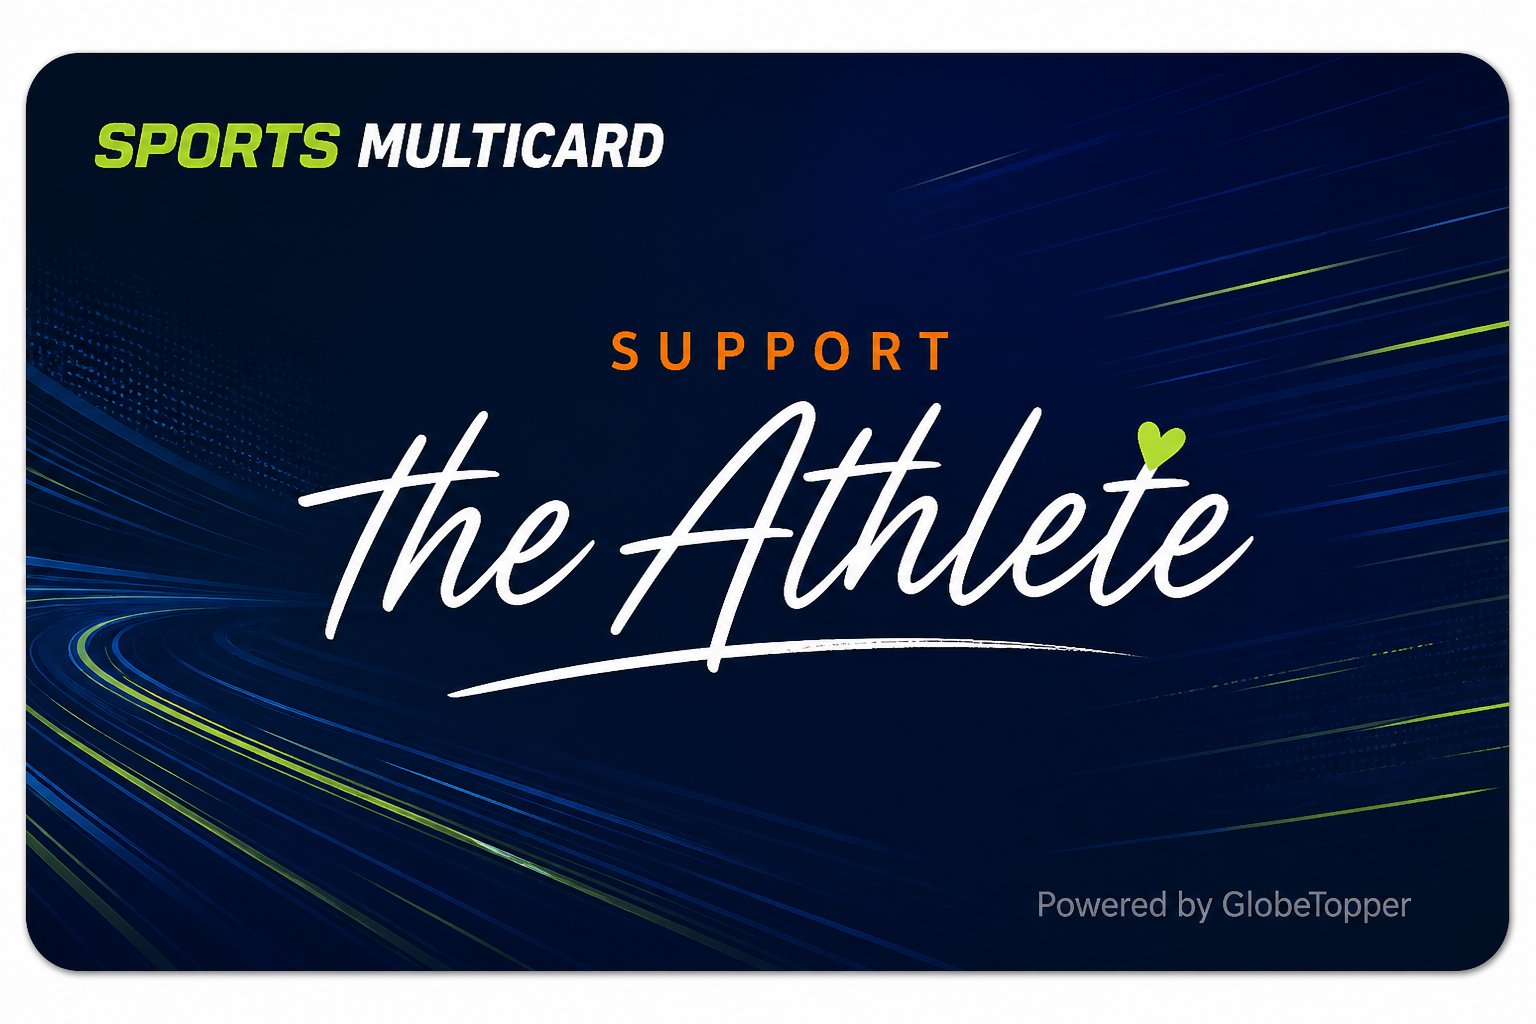
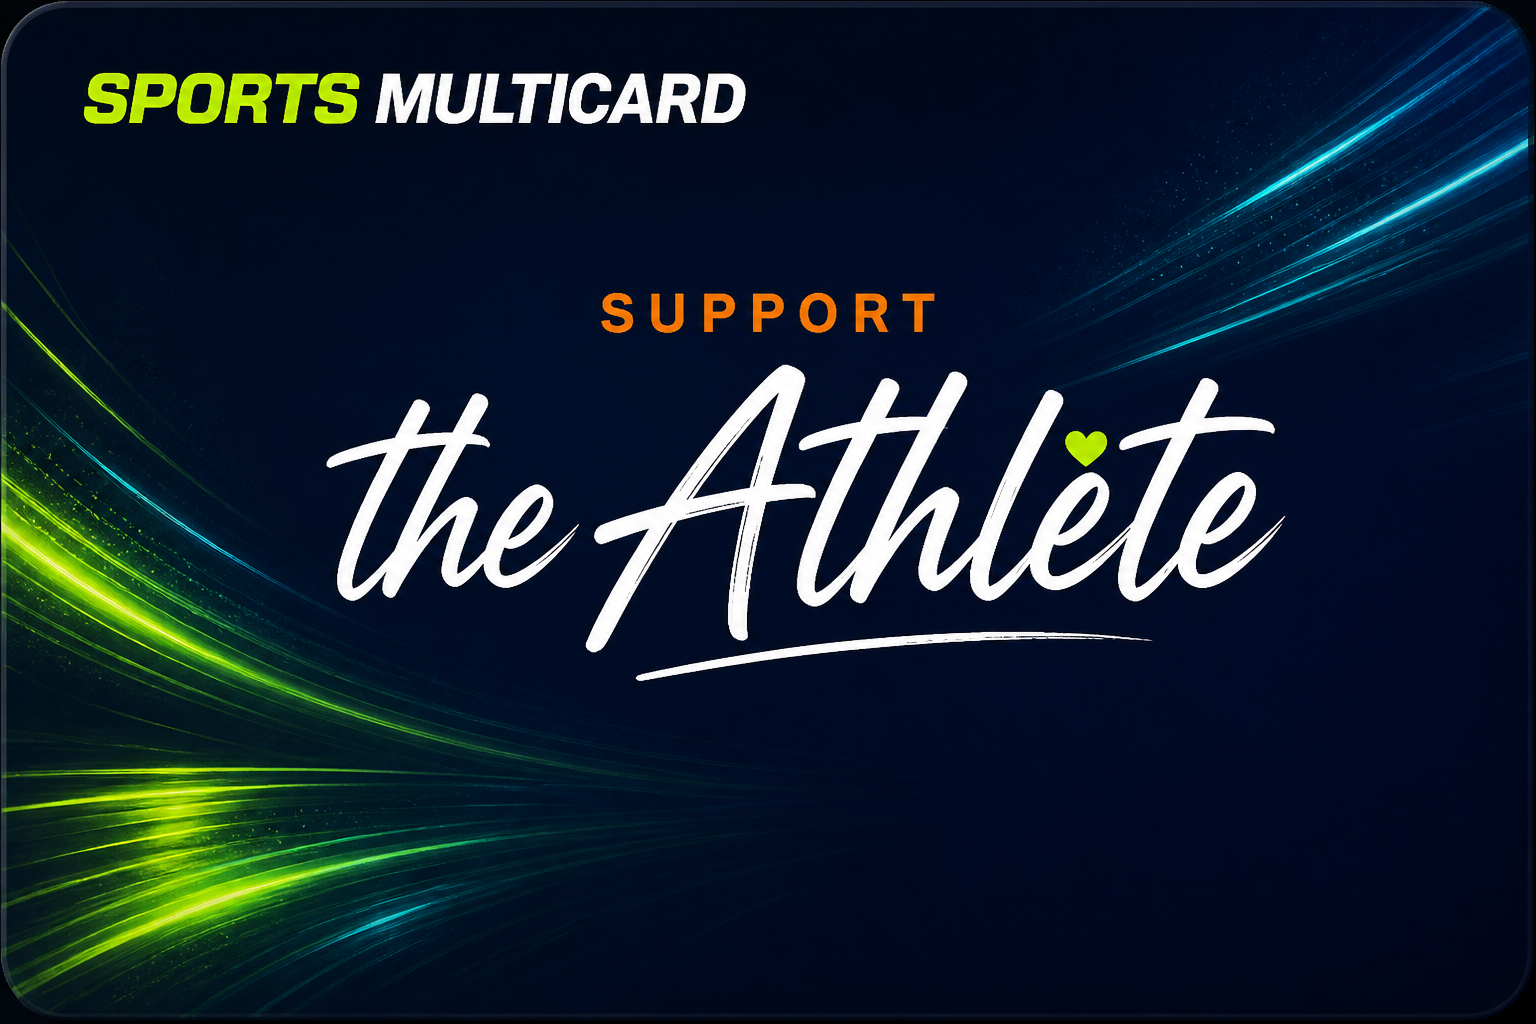
Remove Powered by GlobeTopper from MultiCard creative.
Use the Idea 2 card artwork on the redeem screen without footer branding.

diff --git a/src/components/PhoneScreens.tsx b/src/components/PhoneScreens.tsx
@@ -573,53 +573,16 @@ export function GiftCardVisual() {
   );
 }
 
-function SportsMultiCardImage({ amount = "$100" }: { amount?: string }) {
+function SportsMultiCardImage() {
   return (
-    <div className="relative aspect-[1.6/1] w-full overflow-hidden rounded-xl border border-neutral-200 bg-white shadow-md">
-      <div className="absolute inset-0 bg-gradient-to-br from-[#f7f5fc] via-white to-[#ebe6f8]" />
-      <div className="absolute -right-4 top-2 flex h-28 w-28 rotate-12 flex-wrap content-start gap-1 opacity-90">
-        {["#3f1cb0", "#e11d48", "#f97316", "#eab308", "#22c55e", "#3b82f6"].map(
-          (c) => (
-            <span
-              key={c}
-              className="h-10 w-10 rounded-md opacity-80"
-              style={{ background: c }}
-            />
-          ),
-        )}
-      </div>
-      <div className="relative flex h-full flex-col justify-between p-3.5">
-        <div>
-          <p
-            className="font-[family-name:var(--font-sora)] text-[15px] font-extrabold tracking-wide"
-            style={{ color: PURPLE }}
-          >
-            SPORTS MULTICARD
-          </p>
-          <p className="mt-1 text-[11px] font-semibold text-neutral-500">
-            {amount}
-          </p>
-        </div>
-        <div className="flex items-end justify-between gap-2">
-          <div className="flex flex-wrap gap-1">
-            {BRANDS.slice(0, 6).map((b) => (
-              <div
-                key={b.name}
-                className="flex h-6 w-6 items-center justify-center rounded bg-white shadow-sm"
-              >
-                <Image
-                  src={b.src}
-                  alt={b.name}
-                  width={16}
-                  height={16}
-                  className="object-contain"
-                />
-              </div>
-            ))}
-          </div>
-          <p className="text-[8px] text-neutral-400">Powered by LinkSports</p>
-        </div>
-      </div>
+    <div className="overflow-hidden rounded-xl border border-neutral-200 bg-white shadow-md">
+      <Image
+        src="/multicards/sports-multicard.png"
+        alt="Sports MultiCard"
+        width={374}
+        height={231}
+        className="h-auto w-full object-cover"
+      />
     </div>
   );
 }
@@ -685,7 +648,7 @@ export function BrandSelectionScreen({
               </span>
             </>
           )}
-          <SportsMultiCardImage amount="$100" />
+          <SportsMultiCardImage />
         </div>
 
         <h3 className="mt-3 text-[17px] font-extrabold text-[#1e3a5f]">
